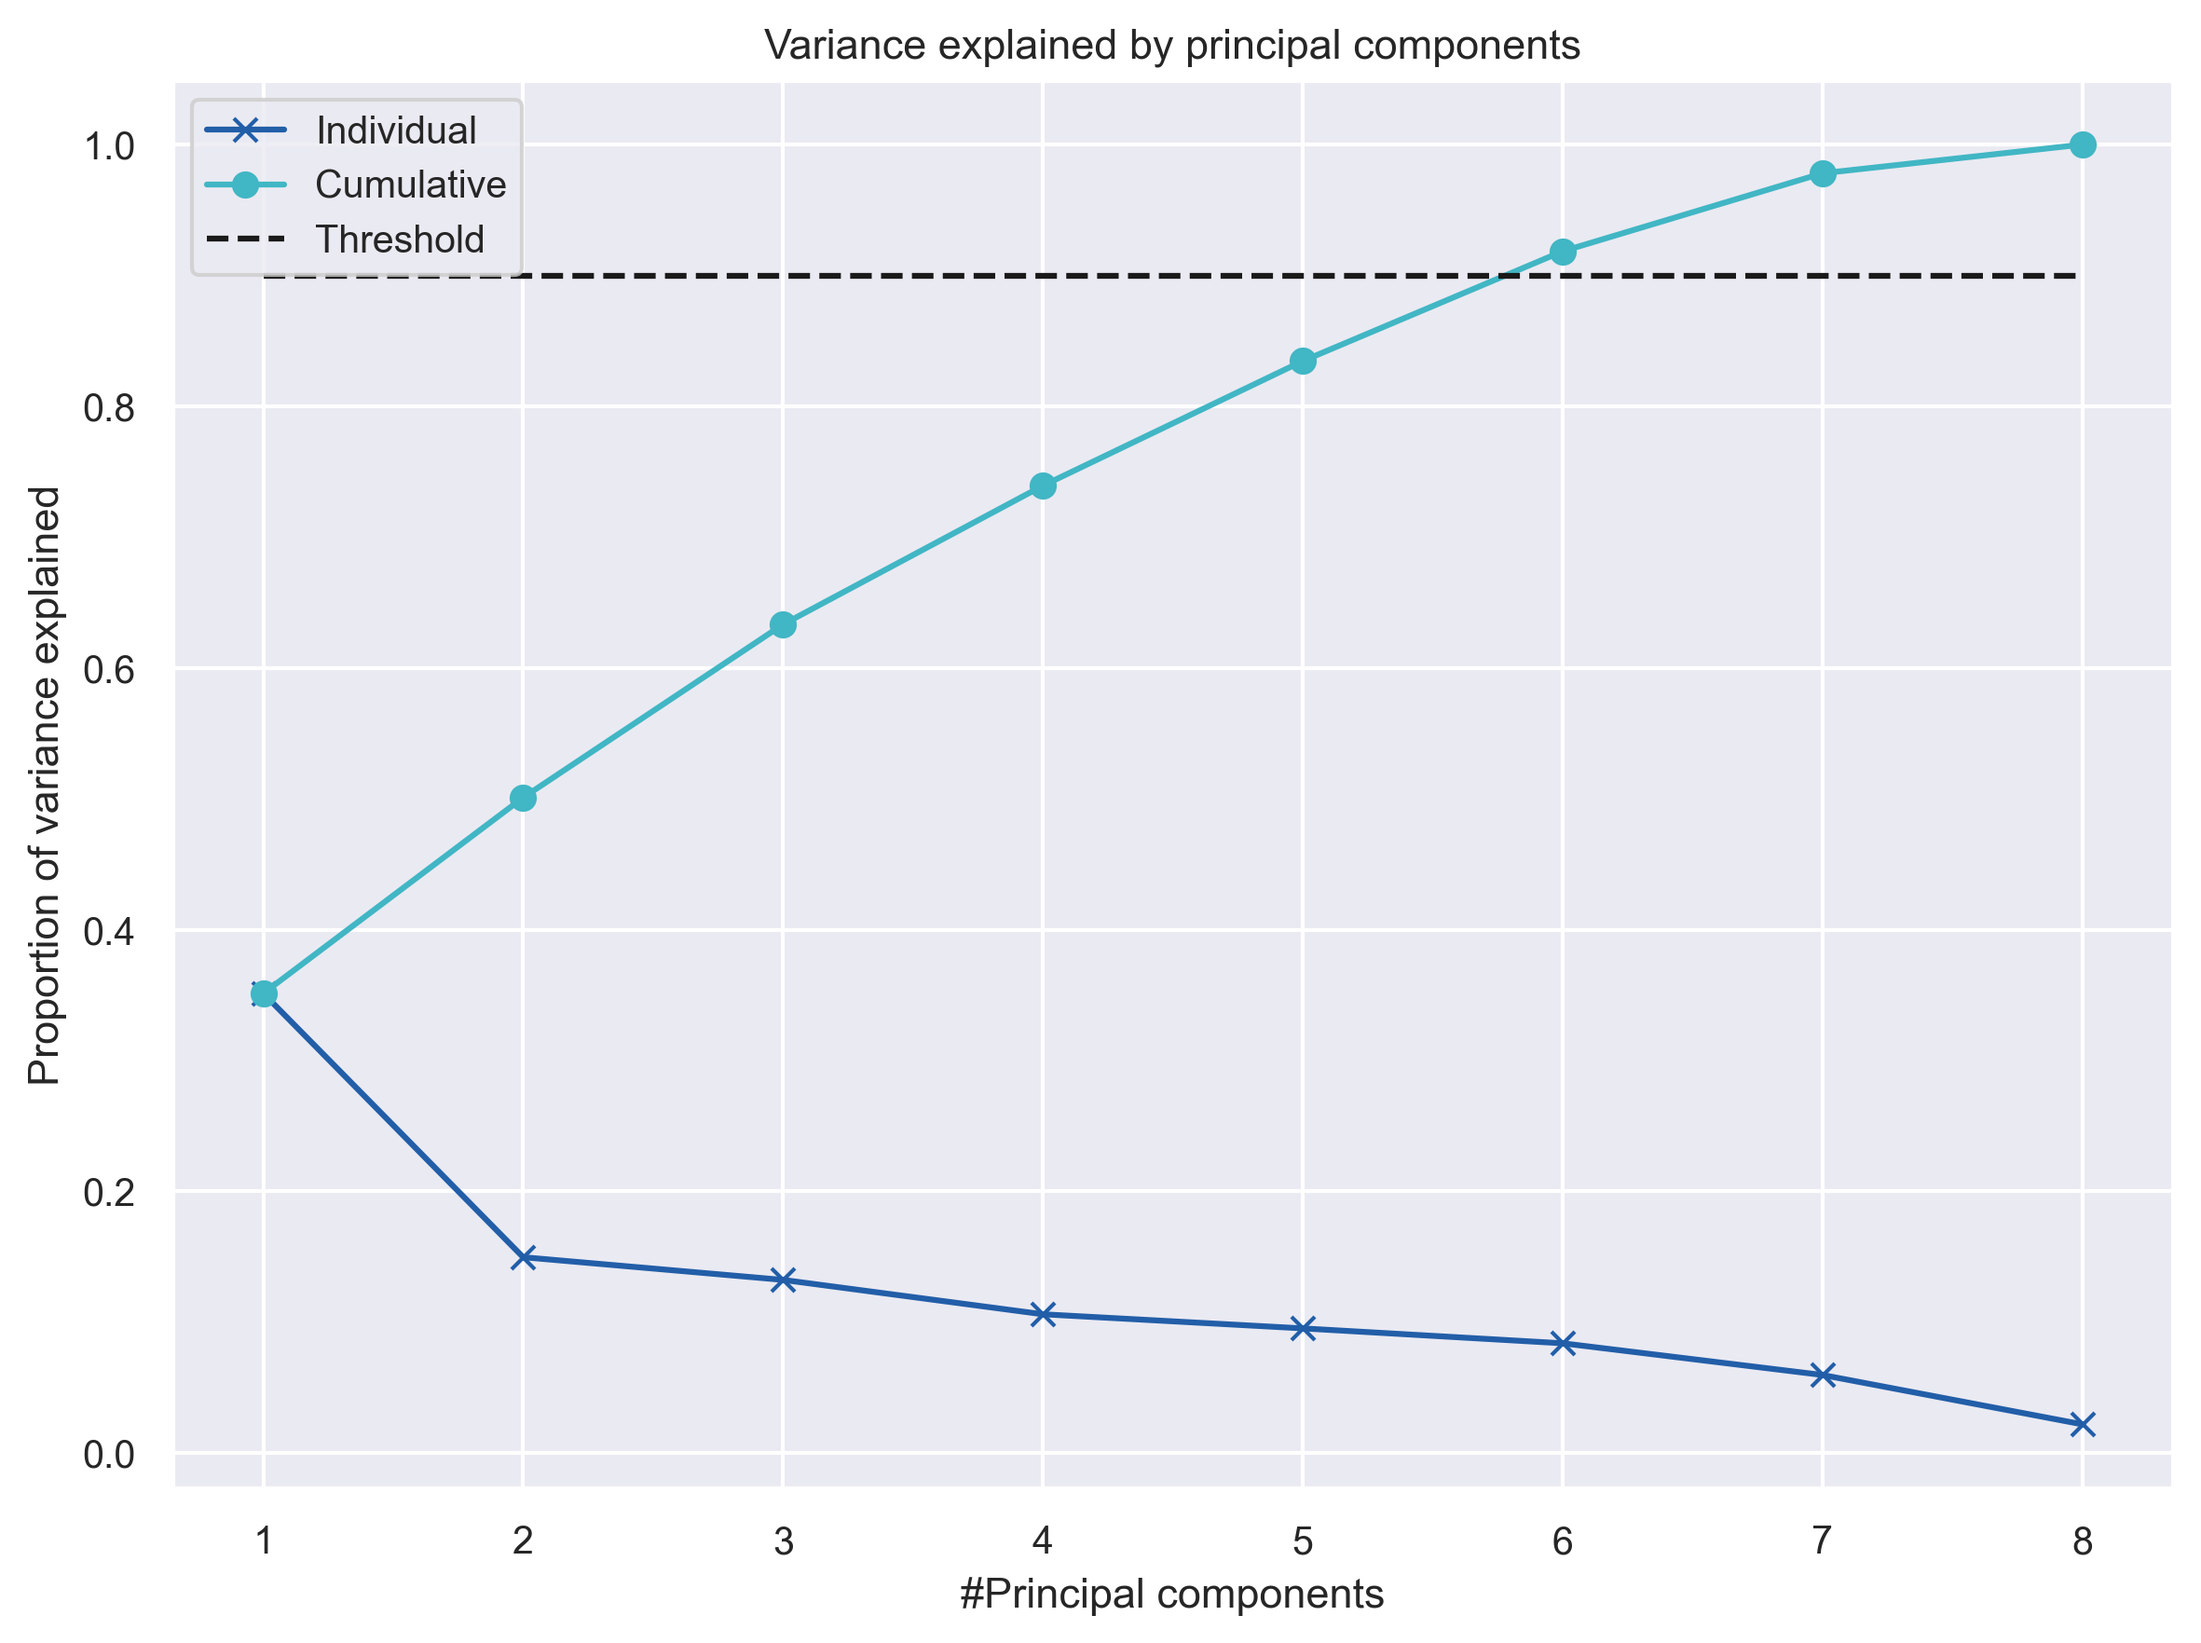
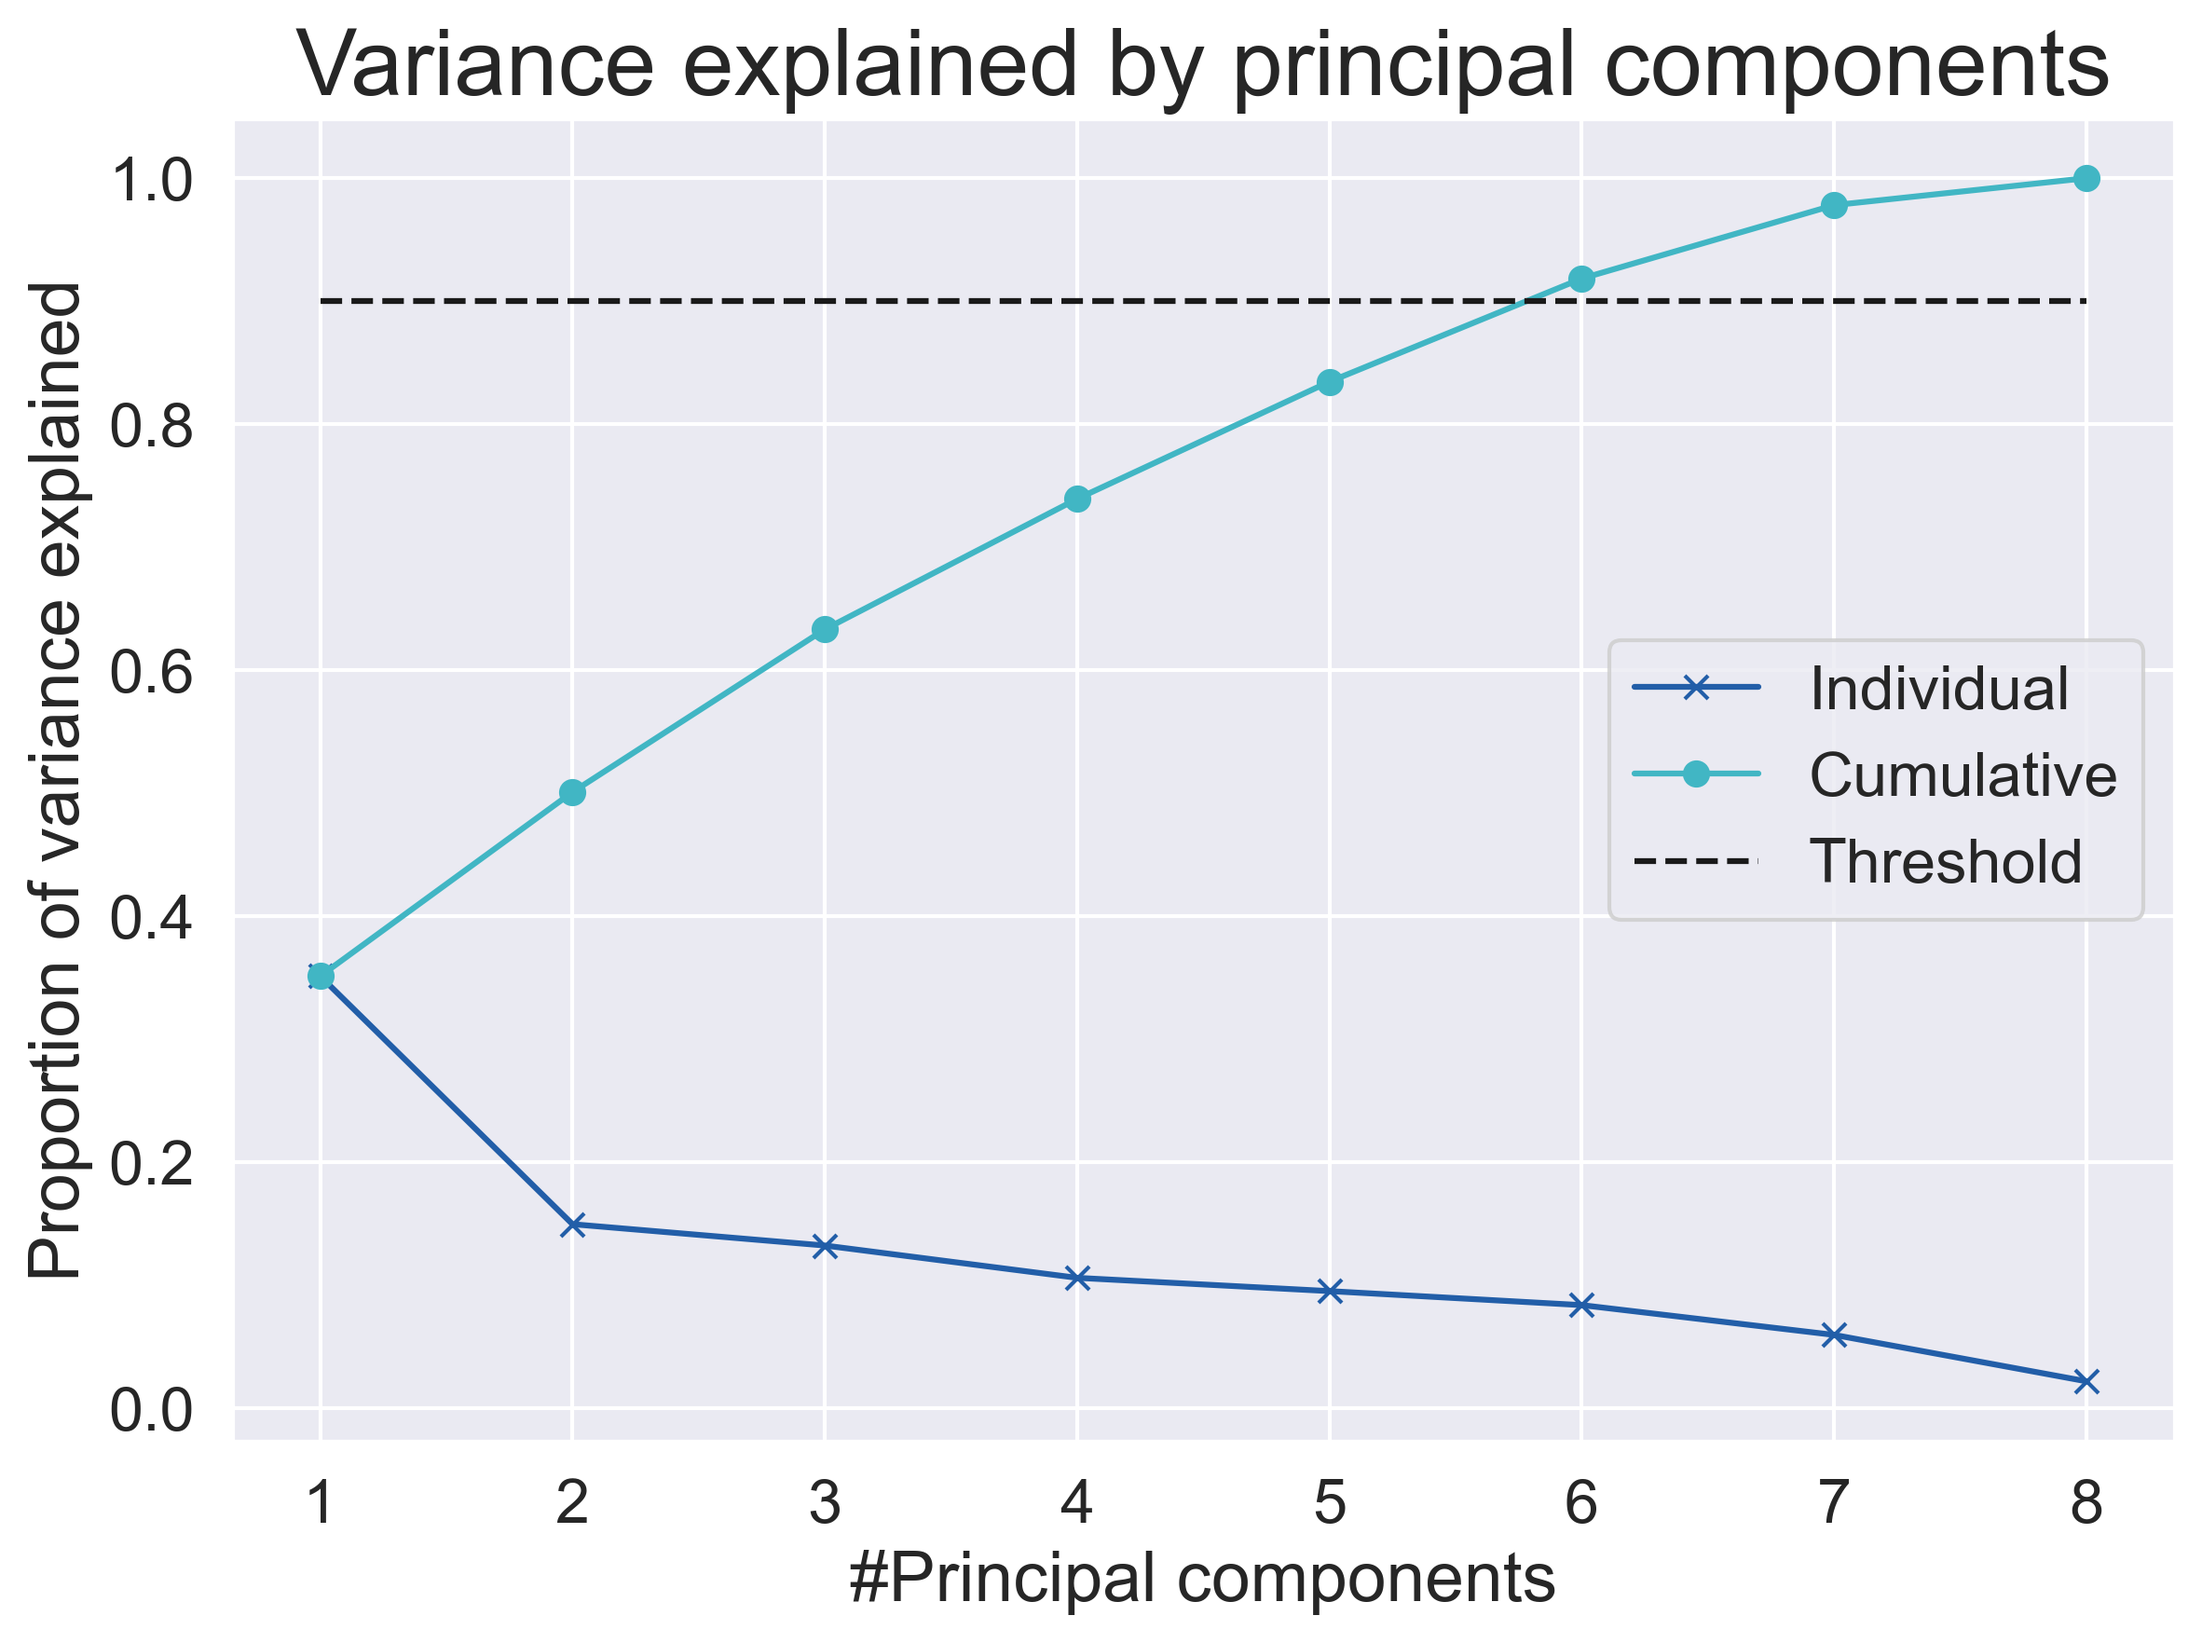
style: increased fontsize of pca plots

diff --git a/main_script.py b/main_script.py
@@ -72,15 +72,17 @@ n_components = 3
 colors = ['#225ea8', '#41b6c4', '#c7e9b4']
 
 fig = plt.figure(figsize=(12, 8))
-plt.title(f"PCA component coefficients - first {n_components} components")
+plt.title(f"PCA component coefficients - first {n_components} components", fontsize=24)
 
 for i, pc in enumerate(V[:, :n_components].T):
     color = colors[i] if i < len(colors) else None
     plt.bar(r + i * bw, pc, width=bw, label=f"PC{i+1}", color=color)
     
 plt.xticks(r + bw, X.columns)
-plt.ylabel("Component coefficients")
-plt.legend()
+plt.ylabel("Component coefficients", fontsize=18)
+plt.xticks(fontsize=16)  
+plt.yticks(fontsize=16) 
+plt.legend(fontsize=16)
 plt.grid(color="white")
 fig.savefig("figures/pca_coef.png", dpi=300, bbox_inches="tight")
 
@@ -114,10 +116,12 @@ plt.plot(range(1, len(rho) + 1), rho, "x-", color="#225ea8")                 # i
 plt.plot(range(1, len(rho) + 1), np.cumsum(rho), "o-", color="#41b6c4")      # accumulated proportion of variance explained
 plt.plot([1, len(rho)], [threshold, threshold], "k--")                         # threshold
 
-plt.title("Variance explained by principal components")
-plt.xlabel("#Principal components")
-plt.ylabel("Proportion of variance explained")
-plt.legend(["Individual", "Cumulative", "Threshold"])
+plt.title("Variance explained by principal components", fontsize=24)
+plt.xlabel("#Principal components", fontsize=18)
+plt.ylabel("Proportion of variance explained", fontsize=18)
+plt.xticks(fontsize=16)  
+plt.yticks(fontsize=16) 
+plt.legend(["Individual", "Cumulative", "Threshold"], fontsize=16)
 plt.grid(color="white")
 plt.tight_layout()
 fig.savefig("figures/expl_var.png", dpi=300, bbox_inches="tight")
@@ -127,14 +131,16 @@ B = pca.transform(X_tilde)
 unique_classes = np.unique(y)
 
 fig = plt.figure(figsize=(8, 6))
-plt.title("Data projected onto the PCA space")
+plt.title("Data projected onto the PCA space", fontsize=24)
 
 for chd_val in unique_classes:
     mask = (y == chd_val)
     plt.scatter(B[mask, PC_idxs[0]], B[mask, PC_idxs[1]], s=30, alpha=0.8, label=f"chd={chd_val}")
 
-plt.xlabel(f"PC{PC_idxs[0] + 1}")
-plt.ylabel(f"PC{PC_idxs[1] + 1}")
-plt.legend(loc="upper left")
+plt.xlabel(f"PC{PC_idxs[0] + 1}", fontsize=18)
+plt.ylabel(f"PC{PC_idxs[1] + 1}", fontsize=18)
+plt.xticks(fontsize=16)  
+plt.yticks(fontsize=16) 
+plt.legend(loc="upper left", fontsize=16)
 plt.tight_layout()
 fig.savefig("figures/projected_scatter.png", dpi=300, bbox_inches="tight")
